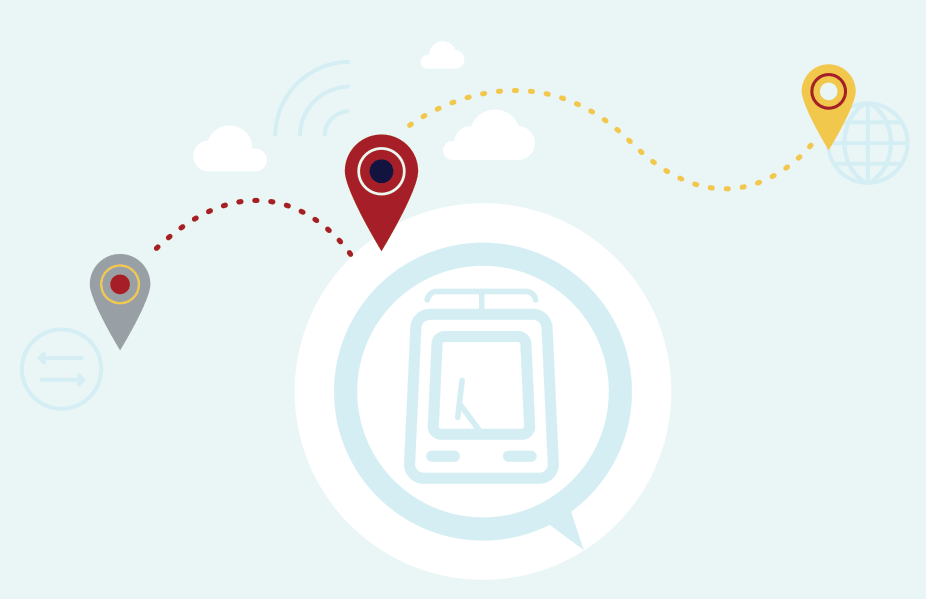
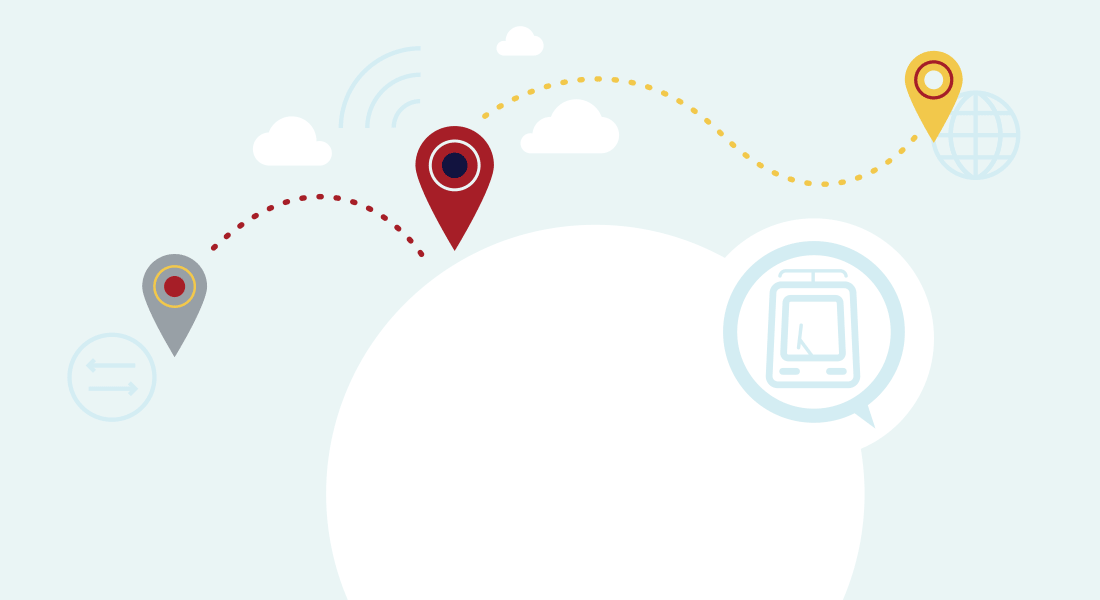
Added back to home button & make homepage jumbotron work on large screen too

diff --git a/app/assets/stylesheets/lost-found.css.scss b/app/assets/stylesheets/lost-found.css.scss
@@ -61,13 +61,22 @@ a, a:hover, a:focus {
   }
 }
 
+a.back-home {
+  color: #FFF;
+  text-transform: uppercase;
+  letter-spacing: 2px;
+  padding: 1em 2em;
+  position: absolute;
+  top: 0;
+  left: 0;
+}
+
 .jumbotron {
   display: flex;
   flex-direction: column;
   align-items: center;
   justify-content: flex-end;
 }
-
 
 .visitors .jumbotron {
   background: #eaf6f6 asset_url("banner.png") no-repeat center top;
@@ -78,6 +87,13 @@ a, a:hover, a:focus {
   img, small {
     align-self: center;
     color: #98A0A7;
+  }
+}
+
+@media (min-width: 420px) {
+  .visitors .jumbotron {
+    background: #eaf6f6 asset_url("banner-subtle.png") no-repeat center top;
+    background-size: cover;
   }
 }
 
@@ -213,4 +229,8 @@ body.loading:before {
   background-color: transparent;
   border: transparent;
   color: #aaa;
+}
+
+footer {
+  padding: 2em;
 }
